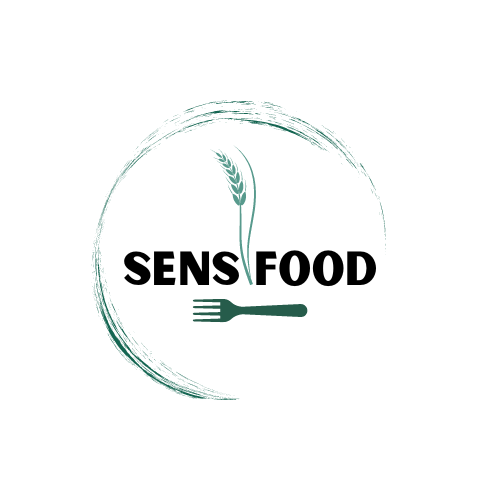
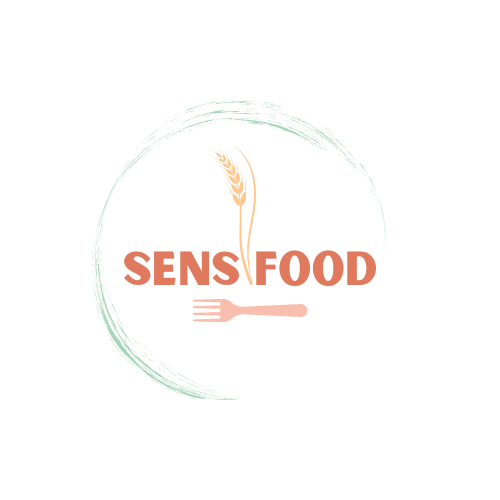
change color

diff --git a/sensifood/lib/auth_pages.dart b/sensifood/lib/auth_pages.dart
@@ -15,7 +15,7 @@ class _LoginScreenState extends State<LoginScreen> {
   @override
   Widget build(BuildContext context) {
     return Scaffold(
-      backgroundColor: const Color(0xFF356859), // Couleur de fond verte foncée
+      backgroundColor: const Color(0xFFD9765F), // Couleur de fond verte foncée
       body: Center(
         child: SingleChildScrollView(
           child: Padding(
@@ -58,7 +58,7 @@ class _LoginScreenState extends State<LoginScreen> {
                           style: TextStyle(
                             fontSize: 24,
                             fontWeight: FontWeight.bold,
-                            color: Color(0xFF356859),
+                            color: Color(0xFFD9765F),
                           ),
                         ),
                         const SizedBox(height: 20),
@@ -106,10 +106,10 @@ class _LoginScreenState extends State<LoginScreen> {
                             }
                           },
                           style: ElevatedButton.styleFrom(
-                            backgroundColor: const Color(0xFF37966F), // Couleur du bouton vert clair
+                            backgroundColor: const Color(0xFFD9765F), // Couleur du bouton vert clair
                             padding: const EdgeInsets.symmetric(vertical: 15),
                             shape: RoundedRectangleBorder(
-                              borderRadius: BorderRadius.circular(10),
+                            borderRadius: BorderRadius.circular(10),
                             ),
                           ),
                           child: const Center(

diff --git a/sensifood/lib/home_page.dart b/sensifood/lib/home_page.dart
@@ -26,10 +26,10 @@ class HomePage extends StatelessWidget {
                 );
               },
               style: ElevatedButton.styleFrom(
-                backgroundColor: const Color(0xFF356859), // Couleur verte foncée pour le bouton
+                backgroundColor: const Color(0xFFD9765F), // Couleur verte foncée pour le bouton
                 padding: const EdgeInsets.symmetric(horizontal: 80, vertical: 15),
                 shape: RoundedRectangleBorder(
-                  borderRadius: BorderRadius.circular(3),
+                  borderRadius: BorderRadius.circular(10),
                 ),
               ),
               child: const Text(
